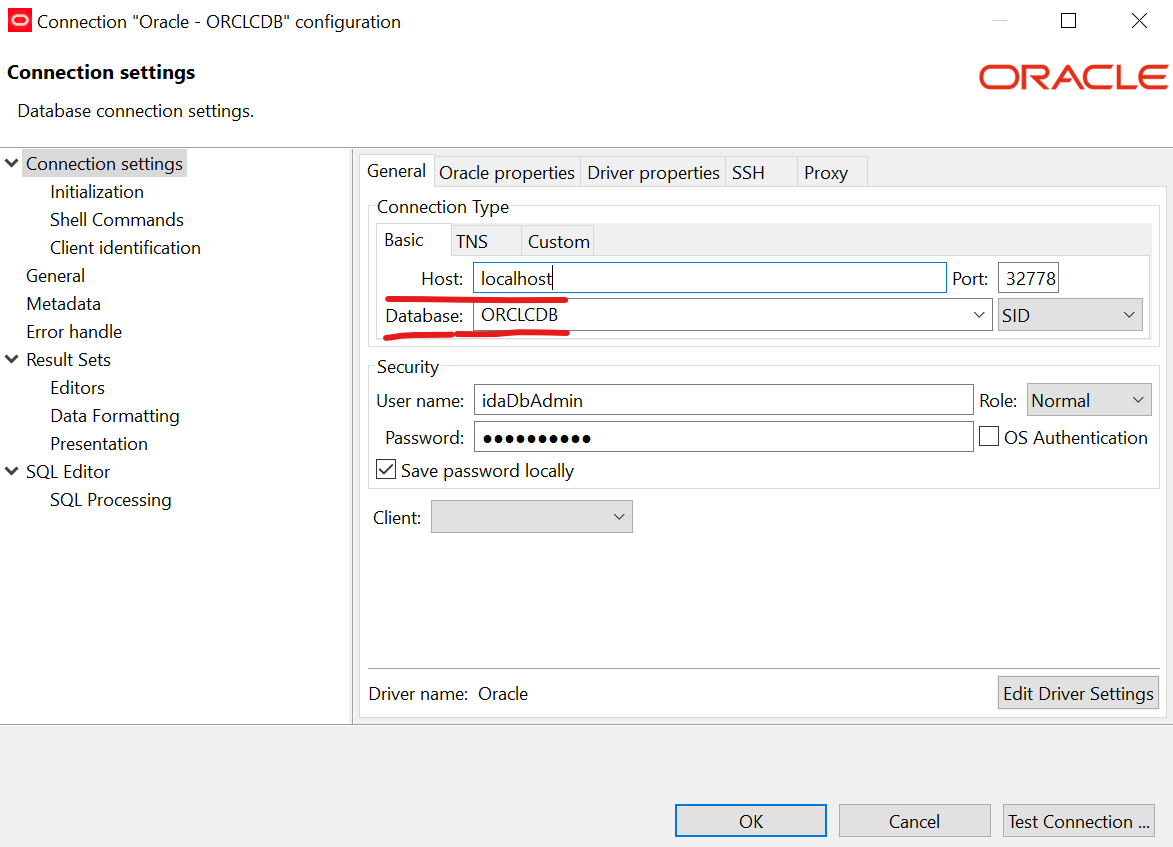
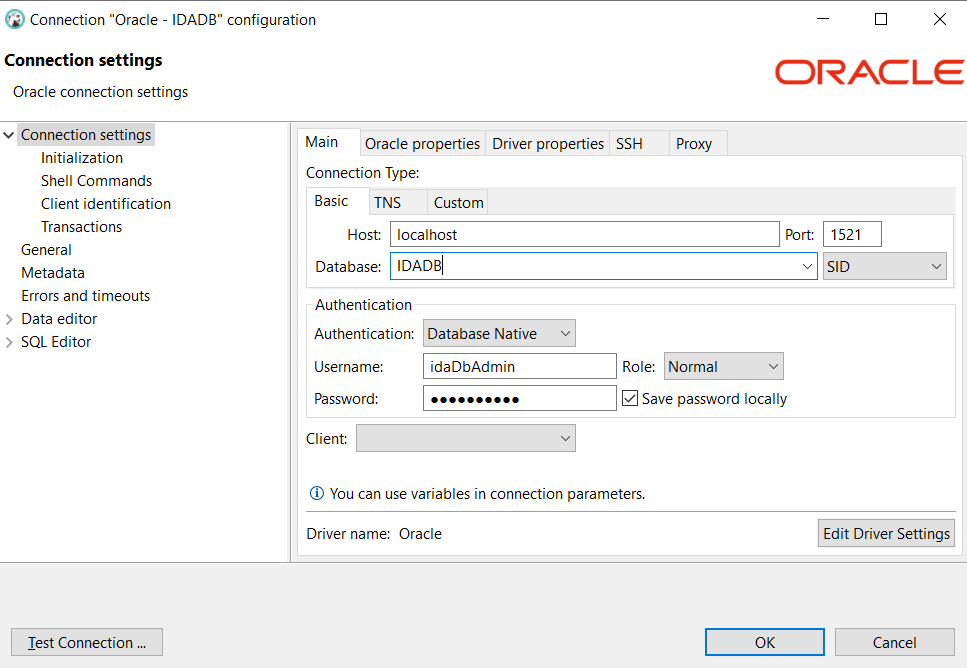
update oracle installation doc

diff --git a/_posts/2018-01-02-installation-db.md b/_posts/2018-01-02-installation-db.md
@@ -2,13 +2,13 @@
 title: "Database Installation and Configuration"
 category: installation
 date: 2018-09-19 15:17:55
-last_modified_at: 2019-08-12 21:28:00
+last_modified_at: 2021-12-17 21:28:00
 order: 2
 ---
 
 # Database Installation and Configuration
 ***
-### Install and Configure DB2
+## Install and Configure DB2
 
 IDA supports DB2 v10.x+. Please refer to the following steps to setup DB2 environment. 
 
@@ -38,7 +38,7 @@ You can use DB2 client tool (Data Studio) to verify database tables are created 
 
 ![][db2]   
 
-##### Notes:
+**Notes**:
 - You will want to change [IDA_HOME]/sql/data-db2.sql script so that   the organization matches your companies name. Please replace ‘IDA’ with your company name as outlined below.  The default IDA login name and password is “idaAdmin”/”idaAdmin”.  
 
 
@@ -51,7 +51,7 @@ After download, extract the **db2jcc4.jar** from driver package and copy it to t
 ![][db2driver]  
 
 
-### Install and Configure MySQL DB
+## Install and Configure MySQL DB
 
 IDA supports MySQL v8.0. Download and install [MySQL](https://dev.mysql.com/downloads/mysql/).  Please refer to the following steps to setup MySQL environment. 
 
@@ -64,8 +64,7 @@ mysql> create database IDA;
 
 **Execute DB Scripts**  
 
-##### Notes:
-- You will want to change [IDA_HOME]/sql/data-mysql.sql script so that  the organization matches your companies name. Please replace ‘IDA’ with your company name as outlined below.  The default IDA login name and password is “idaAdmin”/”idaAdmin”.  
+**Notes:** You will want to change [IDA_HOME]/sql/data-mysql.sql script so that  the organization matches your companies name. Please replace ‘IDA’ with your company name as outlined below.  The default IDA login name and password is “idaAdmin”/”idaAdmin”.  
 
 
 Connect to the MySQL server and switch to the **IDA** DB and execute DB scripts **schema-mysql.sql**, **data-mysql.sql** to create the database tables and populate data. These 2 SQL scripts can be found in the **sql** folder of IDA installation package.
@@ -84,9 +83,7 @@ In MySQL 8.0, the default authentication plugin has changed from **mysql_native_
 ALTER USER 'root'@'localhost' IDENTIFIED WITH mysql_native_password BY 'password';
 ```
 
-**Notes:**   
-
-You might need to change **data-mysql.sql** script for the your organization name. Please  replace 'IDA' to your company name occur in the below script. The default IDA login name and password is "idaAdmin"/"idaAdmin". Please don't change this username and password in the SQL file.
+**Notes:**   You might need to change **data-mysql.sql** script for the your organization name. Please  replace 'IDA' to your company name occur in the below script. The default IDA login name and password is "idaAdmin"/"idaAdmin". Please don't change this username and password in the SQL file.
 
 ``` 
 INSERT INTO organization (company_name, active) VALUES ('IDA', true);
@@ -103,14 +100,19 @@ After download,  copy mysql-connector-java-5.1.44.jar to the lib folder of IDA i
 ![][mysqldriver]  
 
 
-### Install and Configure Oracle
+## Install and Configure Oracle
 
 IDA supports Oracle Database Server 12c R2(v12.2.0.1 Enterprise Edition) and 19c(V19.3.0 Enterprise Edition). Please refer to the following steps to setup Oracle environment. 
+
+**Create Database Instance**
+
+Create a database instance named IDADB based on [doc](https://docs.oracle.com/database/121/ADMIN/create.htm#ADMIN002).
 
 **Create Oracle User/Schema**   
 
 Login into the Oracle database instance and execute below commands to create user/schema 'idaDbAdmin' with password 'idaDbAdmin'. You may use SQL*Plus and use command 'sqlplus SYS AS SYSDBA' to log into the database instance.
 ``` 
+alter session set "_ORACLE_SCRIPT"=true;
 CREATE USER idaDbAdmin IDENTIFIED BY idaDbAdmin DEFAULT TABLESPACE USERS TEMPORARY TABLESPACE TEMP;
 GRANT create session TO idaDbAdmin;
 GRANT create table TO idaDbAdmin;
@@ -121,8 +123,7 @@ GRANT UNLIMITED TABLESPACE TO idaDbAdmin;
 
 
 **Execute Oracle DB Scripts**  
-##### Notes:
-- You will want to change [IDA_HOME]/sql/data-oracle.sql script so that  the organization matches your companies name. Please replace ‘IDA’ with your company name as outlined below.  The default IDA login name and password is “idaAdmin”/”idaAdmin”.  
+**Notes:** You will want to change [IDA_HOME]/sql/data-oracle.sql script so that  the organization matches your companies name. Please replace ‘IDA’ with your company name as outlined below.  The default IDA login name and password is “idaAdmin”/”idaAdmin”.  
 
 Use SQL*Plus and command 'sqlplus idaDbAdmin' to log into the database instance, to switch to the **idaDbAdmin** DB Schema. Execute DB scripts **schema-oracle.sql**, **data-oracle.sql** to create the database tables and populate data. These 2 SQL scripts can be found in the **sql** folder of IDA installation package.
 
@@ -131,12 +132,12 @@ SQL > @/schema-oracle.sql
 SQL > @/data-oracle.sql
 ```  
 
-You can use DBeaver to verify database tables are created and populated with data. The Oracle DB connection info should be configured as follows(replace the Host and Database SID with your Oracle DB SID):
+You can use DBeaver to verify database tables are created and populated with data. The Oracle DB connection info should be configured as follows(replace the Host with your Oracle DB host address):
 ![][dbeaver_oracle]
 
 
 **Download Oracle Driver**  
-You can download [Oracle Database 12.2.0.1 JDBC Driver](https://www.oracle.com/technetwork/database/features/jdbc/jdbc-ucp-122-3110062.html) 
+You can download [Oracle Database 12.2.0.1 JDBC Driver](https://www.oracle.com/database/technologies/jdbc-ucp-122-downloads.html) or [Oracle Database 19c JDBC Driver](https://www.oracle.com/database/technologies/appdev/jdbc-ucp-19c-downloads.html)
 
 After download, extract the **ojdbc8.jar** from driver package and copy it to the lib folder of IDA installation package.
 

diff --git a/_posts/2020-04-30-installation-migrate-ida-from-v21.0.0.md b/_posts/2020-04-30-installation-migrate-ida-from-v21.0.0.md
@@ -25,7 +25,7 @@ To prepare your migration, take the following steps:
 Below steps are appplicable to MySQL database. For other types of database, steps are similar. To update DB, take the following steps:
 
 1. Start the mysql Server.  
-2. You can find migrate-mysql*.sql in the sql\migrate\mysql folder. Copy the corresponding version upgrade sql into clipboard.     
+2. You can find migrate-mysql*.sql in the sql\migrate\mysql folder.     
 For example: If your previous version is v21.0.0.You need to pick below sql script to run one by one.Make sure the migrate sql version name is bigger than your previous version.
 * migrate-mysql-v21.0.0-v21.1.0.sql.
 * migrate-mysql-v21.1.1-v21.2.0.sql
@@ -40,7 +40,12 @@ For example: If your previous version is v21.0.0.You need to pick below sql scri
 &ensp;&ensp;&ensp;3.Connect to the MySQL server and use IDA database. Execute the script for each consecutive version.
 ```
 mysql> use IDA ;   
-mysql> paste your sql here   
+mysql> source yoursqlpath\migrate-mysql-v21.0.0-v21.1.0.sql
+mysql> source yoursqlpath\migrate-mysql-v21.1.1-v21.2.0.sql
+mysql> source yoursqlpath\migrate-mysql-v21.2.0-v21.3.0.sql
+mysql> source yoursqlpath\migrate-mysql-v21.3.0-v21.3.1.sql
+mysql> source yoursqlpath\migrate-mysql-v21.3.1-v21.3.2.sql
+mysql> source yoursqlpath\migrate-mysql-v21.3.2-v21.3.3.sql
 ```    
 
 ### Step 2: Update IDA.war   
